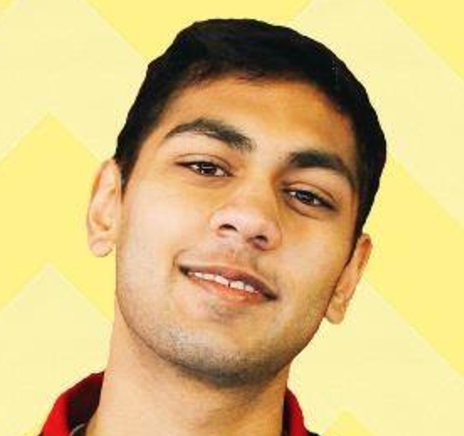
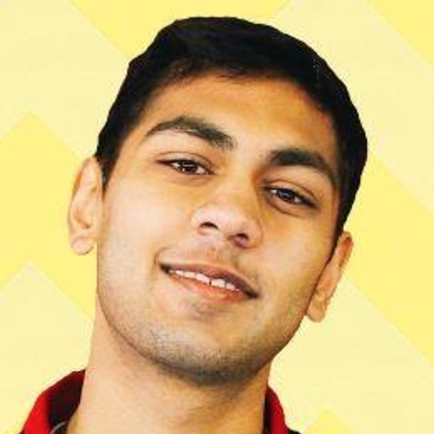
minor changes to pictures and blurbs

diff --git a/index.html b/index.html
@@ -86,17 +86,20 @@
       </div>
 
       <div class="row marketing-subcontainer">
-        <div class="col-lg-4 marketing-blurb">
+        <div class="col-sm-4 marketing-blurb">
         	<img src="img/muscle-arm-red.png" alt="strength">
+        	<!-- <p>The Track Trainer is a fun, game-like rehabilitation device for hands, arms and shoulders.</p> -->
         	<p>The Track Trainer is a fun, game-like rehabilitation device for hands, arms and shoulders.</p>
         </div>
-				<div class="col-lg-4 marketing-blurb">
+				<div class="col-sm-4 marketing-blurb">
 					<img src="img/raising-bars-red.png" alt="effectiveness">
-					<p>Patients can easily see improvement over the course of their therapy by recording how fast they complete each lap of the track.</p>
+					<!-- <p>Patients can easily see improvement over the course of their therapy by recording how fast they complete each lap of the track.</p> -->
+					<p>Track improvement of patients over the course of therapy by recording lap times.</p>
 				</div>
-				<div class="col-lg-4 marketing-blurb">
+				<div class="col-sm-4 marketing-blurb">
 					<img src="img/low-price-red.png" alt="affordability">
-					<p>Best of all, the Track Trainer’s simple design makes it one of the most affordable rehabilitation devices in the market.</p>
+					<!-- <p>Best of all, the Track Trainer’s simple design makes it one of the most affordable rehabilitation devices in the market.</p> -->
+					<p>Our simple design makes the Track Trainer one of the most affordable rehab devices in the market.</p>
 				</div>
 			</div>
 

diff --git a/product.html b/product.html
@@ -87,6 +87,12 @@
       </div>
     </div>
 
+    <!-- COVER BLOCK
+================================================== -->
+		<div class="infographic-container bg-white color6">
+      <h1>Helping stroke patients take charge of their recovery.</h1>
+		</div>
+
     <!-- FOOTER BLOCK
 ================================================== -->
     <footer class="footer-container bg-color4">		    		

diff --git a/team.html b/team.html
@@ -92,7 +92,7 @@
       
       <div class="row bio-subcontainer">
         <div class="col-lg-4 bio-blurb">
-        	<img src="img/ash.png" alt="ash.png">
+        	<img src="img/ash2.png" alt="ash.png">
         	<h3>Ashir Bansal</h3>
         	<p>Ash is the CEO of Track Trainer and a kool dood</p>
         </div>

diff --git a/css/index.css b/css/index.css
@@ -51,7 +51,6 @@
 }
 
 .marketing-subcontainer {
-	padding: 0 40px;
 }
 
 .marketing-blurb {
